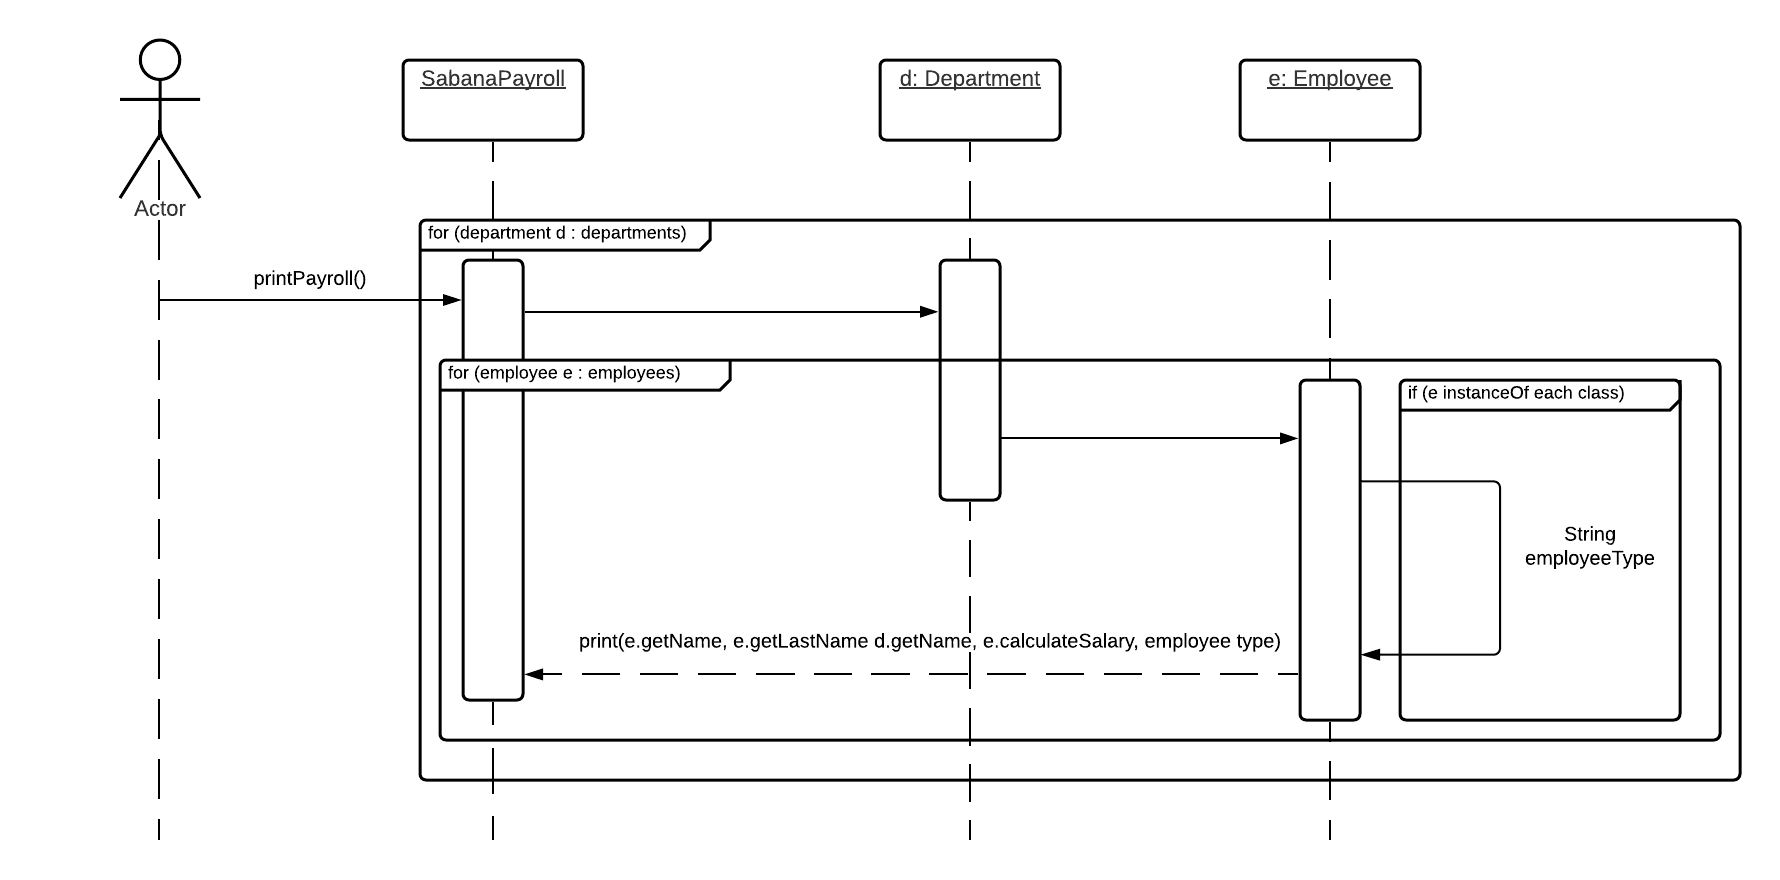
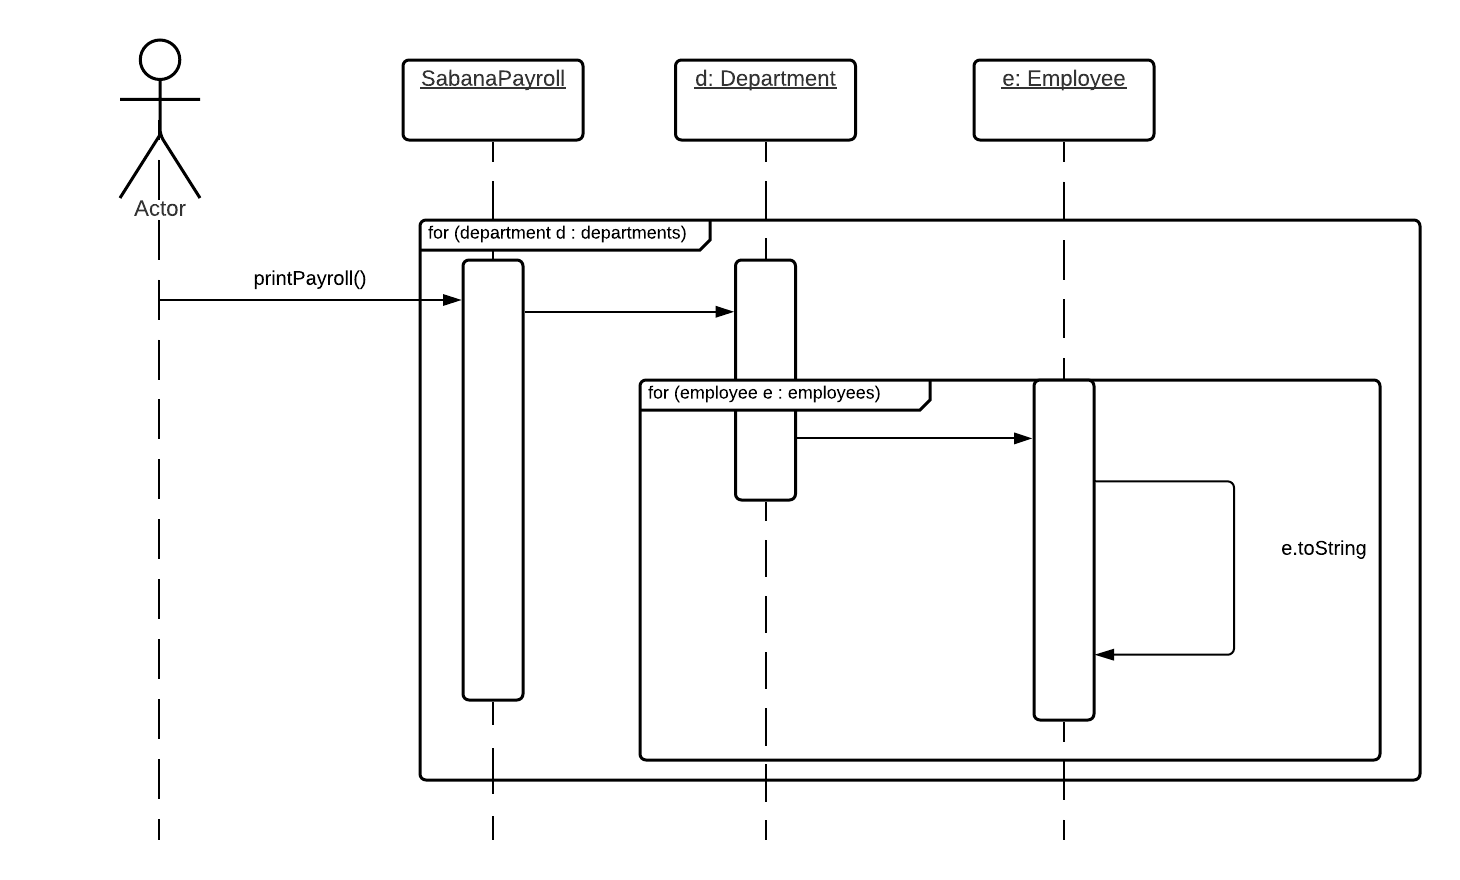
P.4 diagramas

diff --git a/SabanaPayroll/src/main/java/entities/SabanaPayroll.java b/SabanaPayroll/src/main/java/entities/SabanaPayroll.java
@@ -41,21 +41,10 @@ public class SabanaPayroll {
     }
 
     public void printPayroll(){
-        String employeeType = " ";
-
         for (Department d: departments){
             List<Employee> employees = d.getEmployees();
             for (Employee e : employees){
-               if (e instanceof EmployeeCommission){
-                    employeeType = ", pago por comisión";
-               }
-                if (e instanceof EmployeeHours){
-                    employeeType = ", pago por horas";
-                }
-                if (e instanceof EmployeeSalary){
-                    employeeType = ", pago por horas";
-                }
-                System.out.println(e.getName()+" "+e.getLastName()+", departamento "+d.getName()+" , salario "+e.calculateSalary()+employeeType);
+               e.toString();
             }
         }
     }

diff --git a/SOLUTION.md b/SOLUTION.md
@@ -13,7 +13,7 @@ Captura de pantalla de tests aprobados:
 
 ![image](https://user-images.githubusercontent.com/79488147/112563978-5da44180-8da8-11eb-97aa-567cf6978e9f.png)
 
-* Trianlge Tests
+* Triangle Tests
 
 ![image](https://user-images.githubusercontent.com/79488147/112564123-ab20ae80-8da8-11eb-87d9-70a11d5c4514.png)
 
